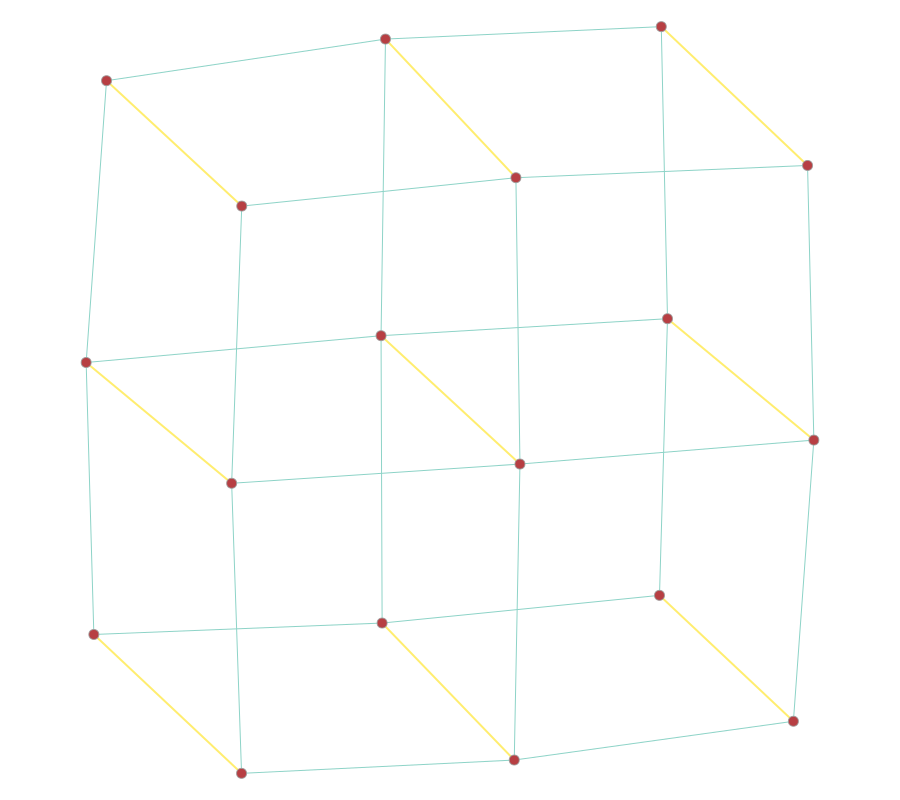
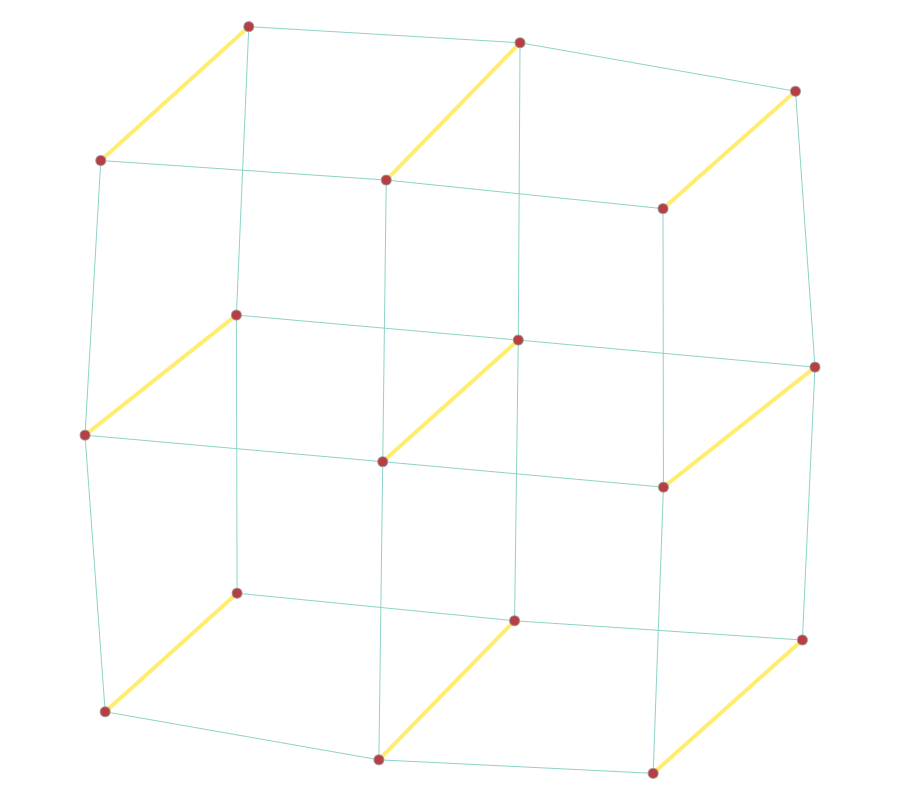
filter based on trans

diff --git a/samplegraph.py b/samplegraph.py
@@ -26,11 +26,23 @@ g.list_properties()
 nprop = g.vertex_properties[nprop_viz]
 nprop.a = (normalize(nprop.a) + 1.0) * 10.0
 eprop = g.edge_properties[eprop_viz]
-eprop.a = normalize(eprop.a) + 1.0
+print(eprop.a)
+eprop.a = (normalize(eprop.a) + 1.0)**2
 
 
 #sys.exit()
 
+pos = gt.sfdp_layout(g)
+
 
 gt.graph_draw(g, vertex_size=nprop, edge_color=eprop, edge_pen_width=eprop,
-  output_size=(900, 800), bg_color=(1, 1, 1, 1), output="{}.png".format(graph_name))
+  output_size=(900, 800), bg_color=(1, 1, 1, 1), output="{}.png".format(graph_name),
+  pos=pos)
+
+
+u = gt.GraphView(g, efilt=lambda e: eprop[e] > eprop.a.max() / 2.0 )
+
+
+gt.graph_draw(u, vertex_size=nprop, edge_color=eprop, edge_pen_width=eprop,
+  output_size=(900, 800), bg_color=(1, 1, 1, 1), output="{}_filtered.png".format(graph_name),
+  pos=pos)
